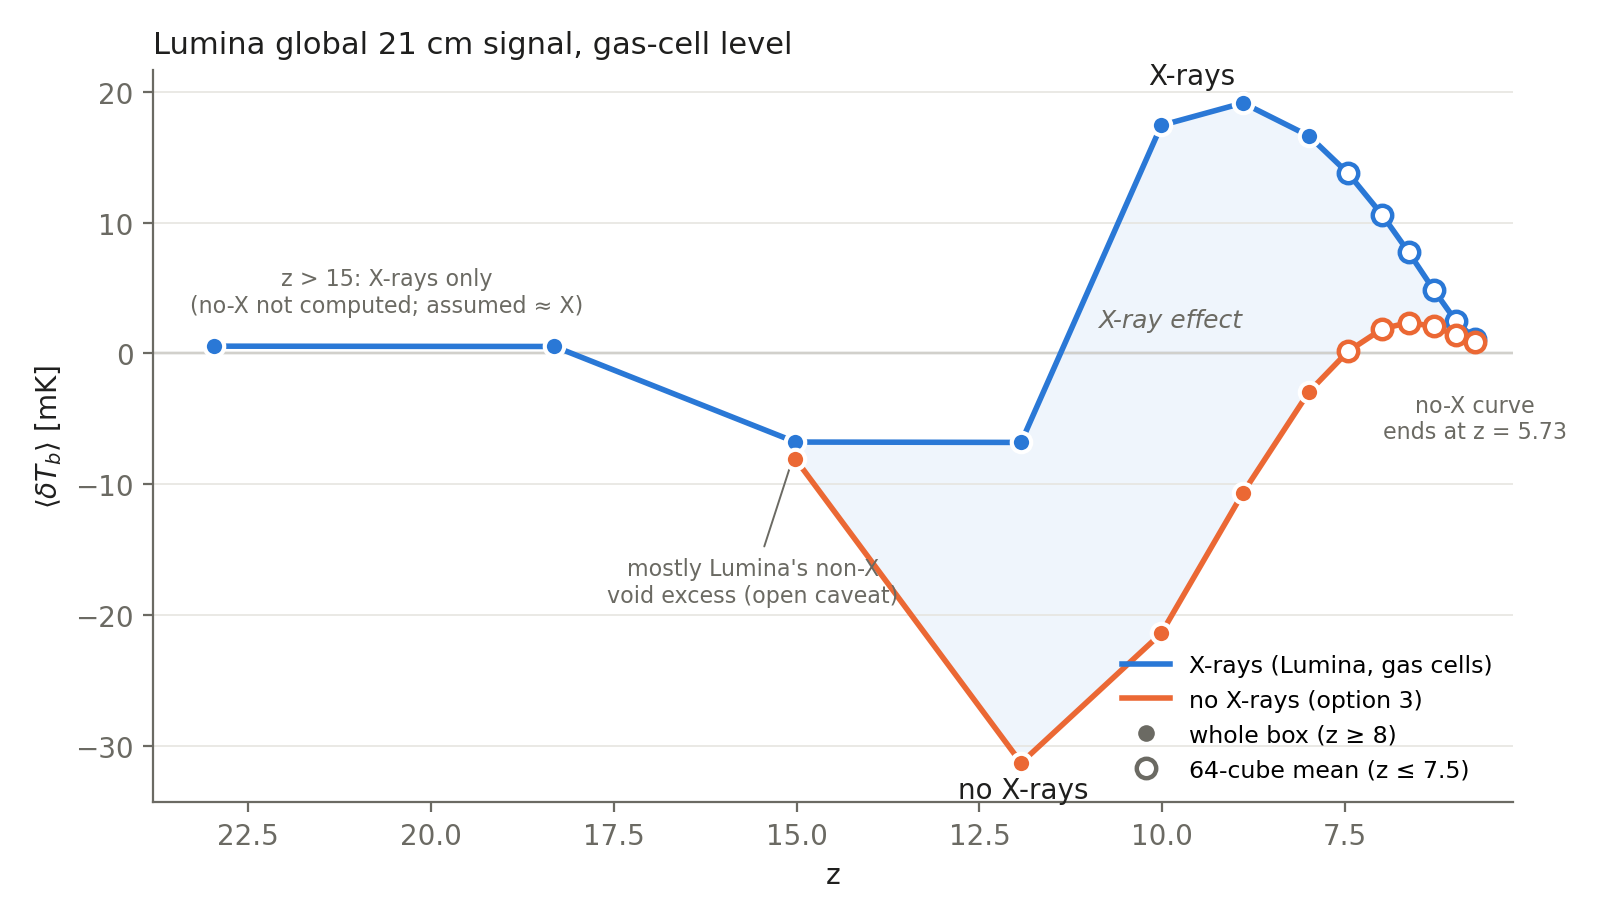
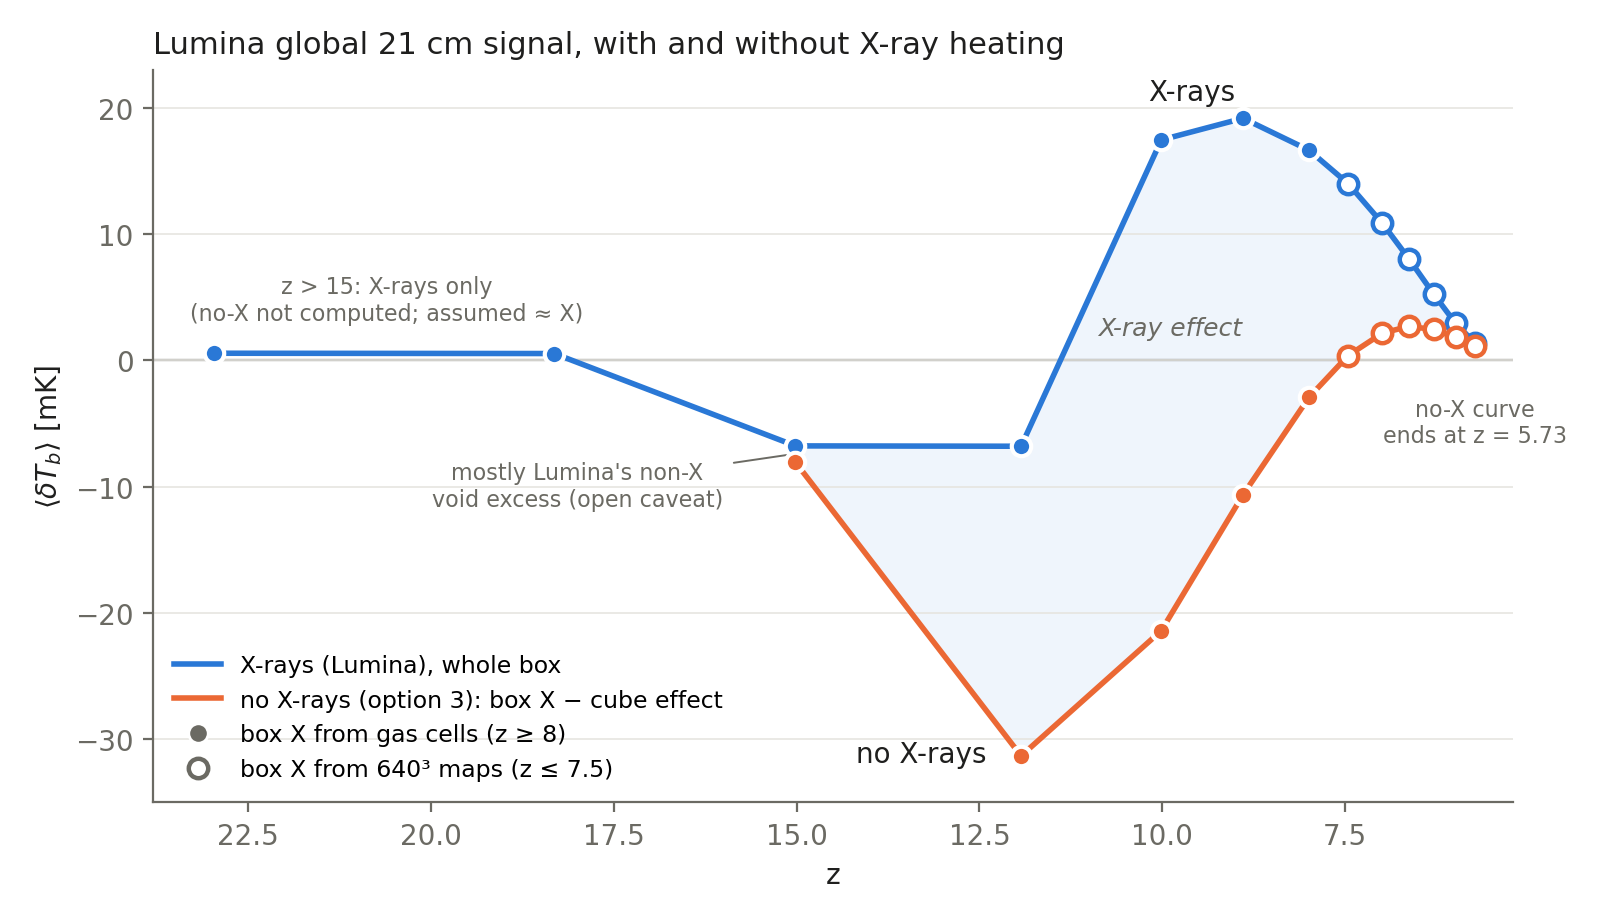
updated

diff --git a/xray/lumina_noX.py b/xray/lumina_noX.py
@@ -349,6 +349,9 @@ def box_X_640(stats, z, max_dz):
     """whole-box <dT_b> with X-rays of the 640^3 production maps (stats_H.csv of make_vid.py: snap, z, mean), linear
     in z between the two renders around z (each within max_dz); returns (value, text) or (nan, reason)"""
     zs, ms, rs = stats
+    im = int(np.argmin(np.abs(zs - z)))
+    if abs(zs[im] - z) <= 1e-4:                                 # the render at the snapshot's z (z <= 12: exact)
+        return ms[im], f"map {rs[im]}"
     lo, hi = np.flatnonzero(zs <= z), np.flatnonzero(zs >= z)
     if not len(lo) or not len(hi):
         return np.nan, "outside the map list"

diff --git a/CLAUDE.md b/CLAUDE.md
@@ -85,11 +85,11 @@ Latest handoff: `HANDOFF_2026-11-16.md` (cloud session of 2026-11-15/16).
 3. **Notebooks:** `visual.ipynb` (a paper figure) and `fan_diagram.ipynb` still use `LUMINA_ALL*.csv`, the pre-production J and mean-field globals: fix after the light cone (JALPHA_NOTES §6.1). `VID.ipynb` reads production outputs; PS_redshift, visual_PS, visual_maps, PS2Bubble, bispec_H/He, subvol_VID still read pre-production maps → repoint, then the bispectrum k units, He bispectrum inputs, placeholder instrument curves.
 4. **Manuscript edits** (the user does them; list in `JALPHA_NOTES.md` §6.3): real space for both lines (and drop "peculiar velocities down to the particle resolution"); volume-weighted x labels; the resolution statements (3.46 cm wording waits for decision 2); the flowchart's hot ISM and HMXB; the AGN shell count 400 → 200; escape fractions, SFR_eff and absorption.
 5. **X-ray runs (`xray/NOTES.md`):** J_α, 21 cm maps (SPIN_MODEL 1), global signal, power spectra, H I temperatures done. **Gas-cell test at full snapshot 024 (z = 15.02):** underdense neutral gas sits at the simulation's 5 K floor (`MinGasTemp = 5` in both runs; ~33% of the neutral H I below 5.5 K); the warm voids of the 128³ pixels were sub-pixel mixing; the pixels overstate ⟨1/T⟩⁻¹ of the neutral H I 2–5×. **Gas cells at 036 / 048 (z = 11.93 / 10.01) done:** the pixels overstate ⟨1/T⟩⁻¹ ×2–7 without X-rays, ×1.2–1.9 with X-rays at z = 10, so the pixel maps underestimate the X-ray effect. **Gas-cell 21 cm δT_b pilot** (`cells_Tb_xray.py`, snapshots 024/036/048, plus 066 as a validation in the X-ray run; τ_GP from the cell's and the pixel's n_HI, which bracket the choice; user, 2026-11-16): run 2026-11-17 (job 29467469); Lumina gas-cell H scans exist at 024–066 (`cell_test_H_NN`). **Lumina's `MinGasTemp` is also 5 K** (snapshot `Parameters` group, checked 2026-11-16): the floor applies to the main paper's cosmic-dawn maps (JALPHA_NOTES §5, §6.1 item 9).
-   - **Lumina's global 21 cm signal without X-ray heating, gas-cell level: done 2026-11-23** (`xray/NOTES.md` steps 5–8; `lumina_noX.py`). Method (option 3, user 2026-11-22; global mean only): every non-star-forming Lumina gas cell keeps its density, x_HII, He fractions and J_α and gets a T drawn from the 50 cMpc no-X run's T distribution of its key (0.05-dex bin of 1+δ × x_HII class); star-forming cells unchanged. Sample: the 64 cubes of the H gas-cell scans (~1.74×10⁹ cells, jackknife errors); whole box at 024–066 (exact box X − cube effect), cube means at 074–102. Closure test on the pair: bias +0.2 to +0.8 mK.
-     | z | 15.02 | 11.93 | 10.01 | 8.90 | 8.00 | 7.46 | 6.99 | 6.63 | 6.29 | 5.99 | 5.73 |
-     |---|---|---|---|---|---|---|---|---|---|---|---|
-     | X-rays [mK] | −6.78 | −6.81 | +17.44 | +19.15 | +16.63 | +13.79 | +10.56 | +7.73 | +4.87 | +2.51 | +1.10 |
-     | no X-rays [mK] | −8.08 | −31.31 | −21.40 | −10.65 | −2.94 | +0.16 | +1.89 | +2.36 | +2.07 | +1.40 | +0.85 |
+   - **Lumina's global 21 cm signal without X-ray heating, gas-cell level: done 2026-11-23** (`xray/NOTES.md` steps 5–8; `lumina_noX.py`). Method (option 3, user 2026-11-22; global mean only): every non-star-forming Lumina gas cell keeps its density, x_HII, He fractions and J_α and gets a T drawn from the 50 cMpc no-X run's T distribution of its key (0.05-dex bin of 1+δ × x_HII class); star-forming cells unchanged. Sample: the 64 cubes of the H gas-cell scans (~1.74×10⁹ cells, jackknife errors); no X = whole-box X − cube effect at every z, with whole-box X from the gas cells at z ≥ 8 (H scans) and from the 640³ maps only at z ≤ 7.5 (user, 2026-11-23, option C; 640³ / gas cells with X-rays 1.146 / 1.033 / 1.011 at z = 10.0 / 8.9 / 8.0, ≲ 1% expected at z ≤ 7.5, extrapolated; the 64-cube means were 1.5–20% low there, correlated sampling). Closure test on the pair: bias +0.2 to +0.8 mK.
+     | z | 22.97 | 18.31 | 15.02 | 11.93 | 10.01 | 8.90 | 8.00 | 7.46 | 6.99 | 6.63 | 6.29 | 5.99 | 5.73 |
+     |---|---|---|---|---|---|---|---|---|---|---|---|---|---|
+     | X-rays [mK] | +0.55 | +0.53 | −6.78 | −6.81 | +17.44 | +19.15 | +16.63 | +13.99 | +10.83 | +8.05 | +5.24 | +2.92 | +1.37 |
+     | no X-rays [mK] | — | — | −8.08 | −31.31 | −21.40 | −10.65 | −2.94 | +0.36 | +2.15 | +2.68 | +2.44 | +1.81 | +1.13 |
      
-     No X: trough −31 mK at z ≈ 12, zero crossing z ≈ 7.5, peak +2.4 mK at z ≈ 6.6; within −0.03 to +0.69 mK of the pair's no X at z ≤ 10. ~95% of the X-ray effect sits in gas at 1+δ < 1. **Curve ends at z = 5.73 (user, 2026-11-22):** the pair is reionized at z = 5.50, so the method has no neutral-gas temperatures there. **J_α at the matching render, not interpolated (user, 2026-11-23):** exact J at renders 226/256/280/326 (`Jalpha_fullsnap/`, kept out of the production J directory, which `lightcone_J.py` reads whole) vs linear in z: ≤ 1.3×10⁻⁵ mK. **Open (user):** how to quote the caveat that option 3 also removes Lumina's non-X void excess (1.17 K at z = 15, cause unknown: the z = 15 effect, +1.30 mK, is mostly that; if it persisted, no X would be less negative by up to ~6 / 5 / 4 / 2.4 mK at z = 12 / 10 / 8.9 / 8), and the z = 15 point. Not the no-heating reference of item 6. Outputs: `/orcd/data/mvogelsb/004/chcho/xray/lumina_noX{,_Jexact}/`, `xray/data/lumina_noX_global.{csv,png}` in the ORCD checkout.
+     z = 23.0 / 18.3: X-ray values only (user: no-X assumed ≈ X, not computed). No X: trough −31 mK at z ≈ 12, zero crossing between z = 8.0 and 7.46, peak +2.7 mK at z ≈ 6.6; within −0.03 to +0.69 mK of the pair's no X at z ≤ 10 (+0.3 to +0.6 at z ≤ 7.5). Figure `xray/data/lumina_X_vs_noX.png`. ~95% of the X-ray effect sits in gas at 1+δ < 1. **Curve ends at z = 5.73 (user, 2026-11-22):** the pair is reionized at z = 5.50, so the method has no neutral-gas temperatures there. **J_α at the matching render, not interpolated (user, 2026-11-23):** exact J at renders 226/256/280/326 (`Jalpha_fullsnap/`, kept out of the production J directory, which `lightcone_J.py` reads whole) vs linear in z: ≤ 1.3×10⁻⁵ mK. **Open (user):** how to quote the caveat that option 3 also removes Lumina's non-X void excess (1.17 K at z = 15, cause unknown: the z = 15 effect, +1.30 mK, is mostly that; if it persisted, no X would be less negative by up to ~6 / 5 / 4 / 2.4 mK at z = 12 / 10 / 8.9 / 8), and the z = 15 point. Not the no-heating reference of item 6. Outputs: `/orcd/data/mvogelsb/004/chcho/xray/lumina_noX{,_Jexact}/`, `xray/data/lumina_noX_global.{csv,png}` in the ORCD checkout.
 6. **No-heating reference: INVALID, to be redone (user, 2026-11-16).** The maps (`Tb_maps_prod/H_real_tkref1e-3_pix0`, the Eq. 27 version before it), their global table (e.g. −136 mK at z = 10), the T_ref side of `check_ref_T.py`, and anything inferred from them (coupling strength from the reference/fully-coupled ratio, trough position, bounds on a gas-cell δT_b) are wrong. Do not cite or reason from them. The fiducial maps and fiducial pixel temperatures are unaffected. The method of the redo is the user's decision (JALPHA_NOTES §6.1 item 10).

diff --git a/xray/NOTES.md b/xray/NOTES.md
@@ -251,3 +251,22 @@ Reading:
   | 102 | 5.73 | +1.10 ± 0.18 | +0.25 ± 0.06 | **+0.85 ± 0.12** | +0.62 | +0.51 |
 
   Lumina no X crosses zero at z ≈ 7.5 and peaks at ≈ +2.4 mK at z ≈ 6.6; with X-rays the cube mean falls monotonically from +19.2 (z = 8.9). The effect is again carried by neutral gas below the mean density: the 1+δ < 1 classes give 95% of it at 074/080/086/097. Neutral IGM ⟨1/T⟩⁻¹ with / without X-rays: 688 / 19.8 K (z = 7.46), 955 / 21.5, 1237 / 23.1, 2017 / 28.5 K (z = 5.99); voids without X-rays 11.3 / 12.6 / 13.9 / 17.9 K, below T_γ (23.1 / 21.8 / 20.8 / 19.1 K), so the no-X voids are still in absorption (⟨1 − T_γ/T⟩ −1.04 / −0.73 / −0.50 / −0.07) and the no-X mean is the balance of those voids and the emitting 1+δ > 1 gas. With X-rays ⟨1 − T_γ/T⟩ = 0.97–0.99: saturated emission. The void-excess caveat above applies here too.
+- **Step 8, whole-box values (user, 2026-11-23: "for z < 7.5, use the whole box", option C; "the other part we still use the cell level").** Why the cube means were not enough at 074–102: they sit 1.5–20% below the 640³ whole-box means with X-rays (cubes / box 0.985 / 0.975 / 0.96 / 0.93 / 0.86 / 0.80 at z = 7.46 → 5.73), all on the same side, 1–2 jackknife errors each. The same 64 cubes (0.8% of the volume) are used at every z, so their sampling error is correlated across snapshots, and late in reionization the remaining H I sits in fewer, rarer regions. **Construction now (`summary`):** whole-box X from the gas cells wherever they exist (011, 017 from `cell_test_H_N` sum_V_tb / sum_V; 024–066 as before), from the 640³ production maps (`VID/H_wf/stats_H.csv`, spin model 1, linear in z between the bracketing renders; the render itself where one is at the snapshot's z) only at z ≤ 7.5 (`--max-z-640 7.5`: a snapshot above it without a gas-cell box stops the run); box no X = box X − cube effect at every z. 640³ / gas-cell whole box with X-rays where both exist: −6.78 → +1.04 (z = 15.02), −6.81 → +10.67 (11.93), 17.44 → 19.99 (×1.146, 10.01), 19.15 → 19.79 (×1.033, 8.90), 16.63 → 16.82 (×1.011, 8.00). The excess shrinks as the neutral gas heats (with X-rays ⟨1/T⟩⁻¹ ≈ 700–2000 K ≫ T_γ ≈ 20 K at z ≤ 7.5: δT_b ∝ n_HI per cell, and the deposit conserves the H I mass), so ≲ 1% (≲ 0.14 mK) is expected at z ≤ 7.5: an extrapolation, not measured; it is below the effect's jackknife errors (0.06–0.37 mK). At z ≤ 7.5 the no-X value therefore combines a pixel-level box X with the gas-cell cube effect (state it). Run by the user 2026-11-23 (commit 0826698; the 066 entry of the check came out nan there, since map 203 lies 0.209 above in z, beyond `--max-dz-640` 0.2, fixed afterwards by taking the exact render first; no effect on 074–102).
+
+  | snap | z | Lumina X, box | box X from | X-ray effect | **Lumina no X, box** | no X, cubes (before) |
+  |---|---|---|---|---|---|---|
+  | 011 | 22.97 | +0.55 | gas cells | — | — (X only) | — |
+  | 017 | 18.31 | +0.53 | gas cells | — | — (X only) | — |
+  | 024 | 15.02 | −6.78 | gas cells | +1.30 ± 0.13 | **−8.08** | −7.95 |
+  | 036 | 11.93 | −6.81 | gas cells | +24.51 ± 0.48 | **−31.31** | −30.45 |
+  | 048 | 10.01 | +17.44 | gas cells | +38.84 ± 0.17 | **−21.40** | −21.13 |
+  | 057 | 8.90 | +19.15 | gas cells | +29.80 ± 0.28 | **−10.65** | −10.56 |
+  | 066 | 8.00 | +16.63 | gas cells | +19.56 ± 0.34 | **−2.94** | −2.97 |
+  | 074 | 7.46 | +13.99 | 640³ | +13.63 ± 0.37 | **+0.36** | +0.16 |
+  | 080 | 6.99 | +10.83 | 640³ | +8.68 ± 0.37 | **+2.15** | +1.89 |
+  | 086 | 6.63 | +8.05 | 640³ | +5.37 ± 0.33 | **+2.68** | +2.36 |
+  | 092 | 6.29 | +5.24 | 640³ | +2.80 ± 0.26 | **+2.44** | +2.07 |
+  | 097 | 5.99 | +2.92 | 640³ | +1.11 ± 0.16 | **+1.81** | +1.40 |
+  | 102 | 5.73 | +1.37 | 640³ | +0.25 ± 0.06 | **+1.13** | +0.85 |
+
+  z = 23.0 and 18.3 (user, 2026-11-23): X-ray values only, no no-X ("x-ray / no x-ray will surely merge"; assumed, not computed). Both are weak emission from collisionally coupled dense gas before Lyα coupling (640³: −0.26 / +0.63 mK). No X now: trough −31.3 mK at z = 11.93, zero crossing between z = 8.0 and 7.46 (+0.36 at 7.46), peak +2.7 mK at z ≈ 6.6. Lumina no X − 50 cMpc no X at z ≤ 7.5: +0.63 / +0.52 / +0.46 / +0.34 / +0.43 / +0.62 mK, within the closure bias (+0.2 to +0.8 mK). Figure: `data/lumina_X_vs_noX.png` (repo; filled markers = gas-cell box X, open = 640³ box X); `summary` writes `data/lumina_noX_global.{csv,png}` on ORCD, with the columns `X_box_src` (cells / 640) and `X_640`.
